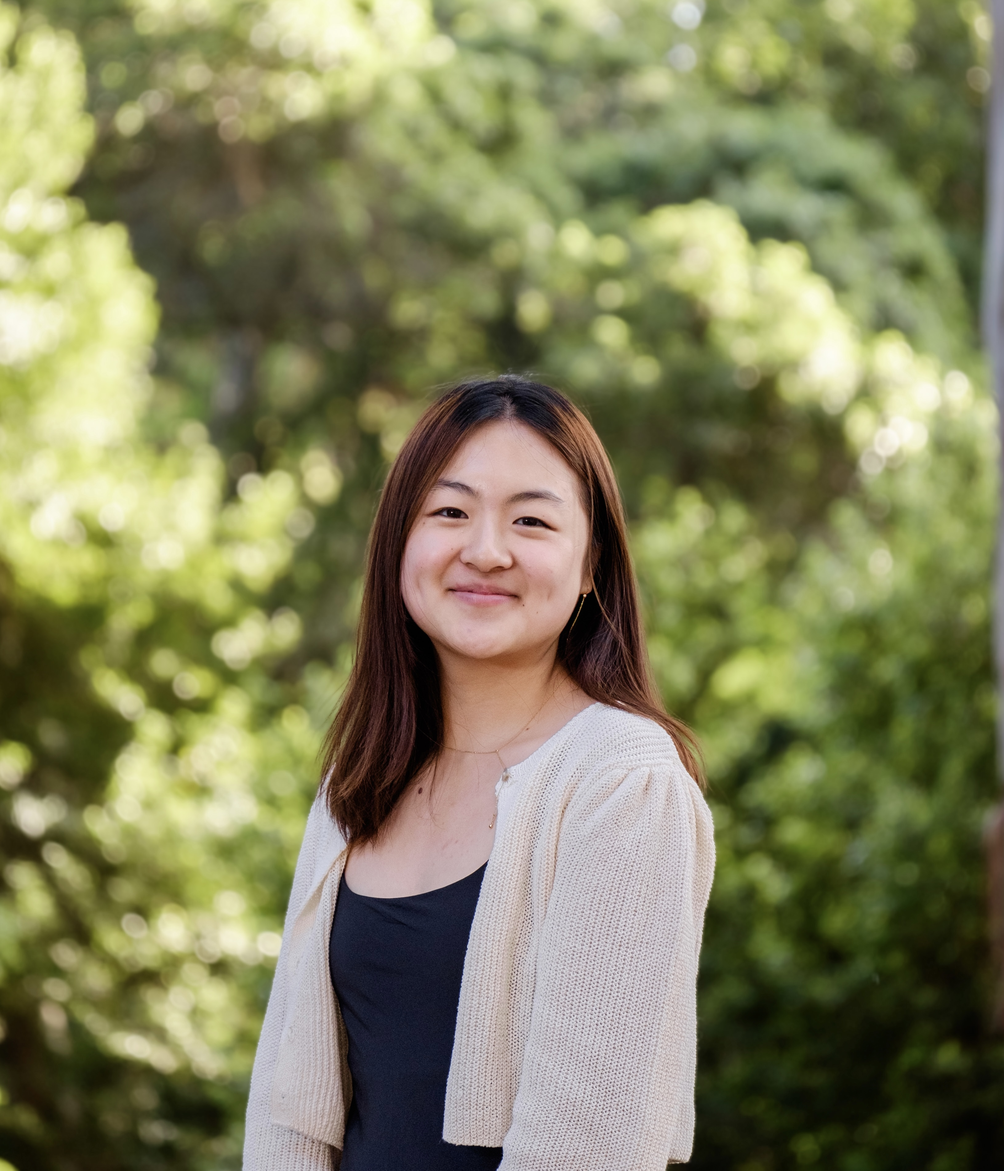
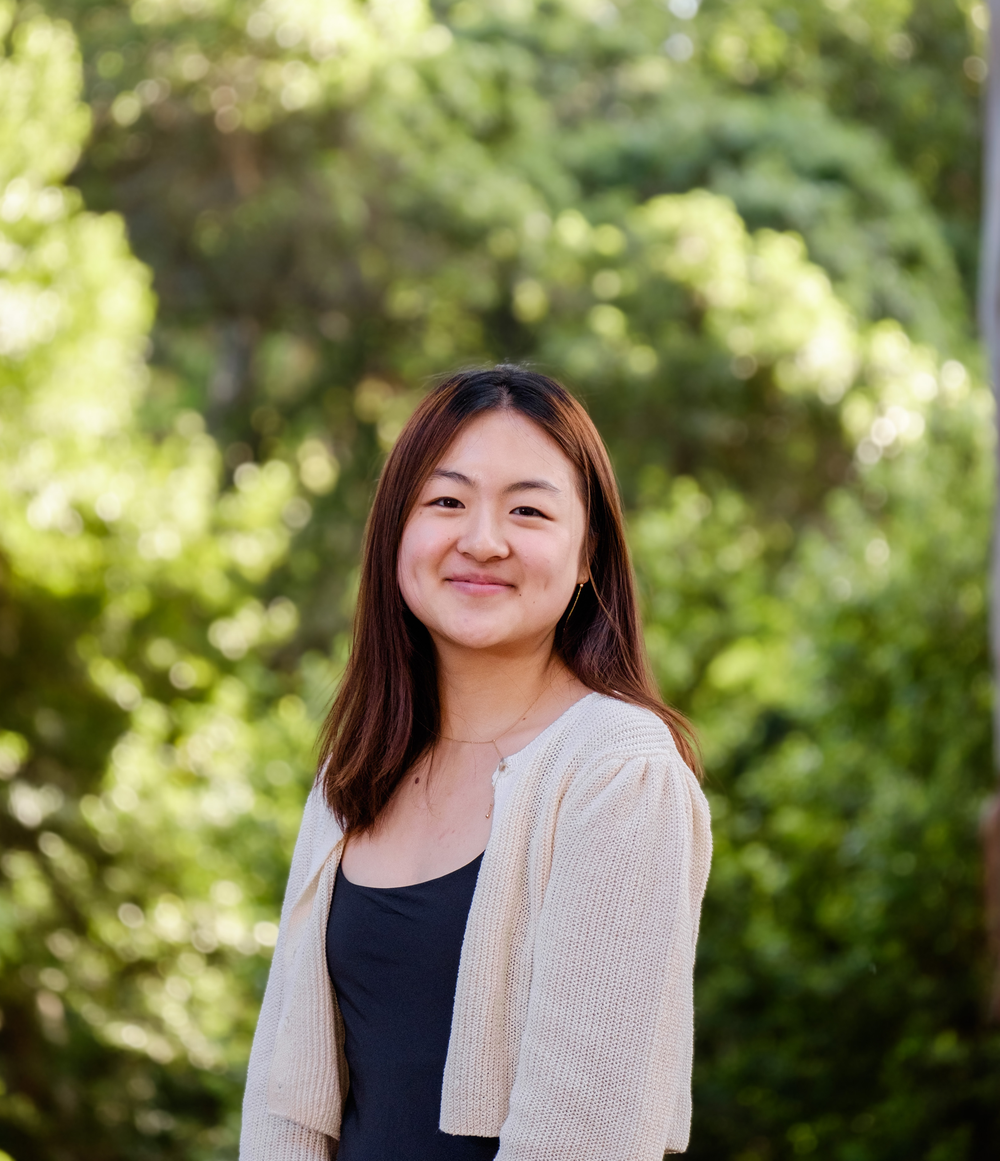
changed intro styling

diff --git a/src/components/About/About.css b/src/components/About/About.css
@@ -22,19 +22,10 @@
   } */
 
 .About {
-  width: 100%;
-  position: relative;
-  overflow: hidden;
-
-  display: flex;
-  flex-direction: column;
-  justify-content: center;
-  align-items: center;
+  width: 100vw;
 }
 
-.intro {
-    padding: 15px;
-    
+.intro { 
     color: #B8A1A1;
     /* font-family: "halyard-micro", sans-serif;
     font-weight: 400; */
@@ -57,15 +48,6 @@
 .bold-text {
   font-weight: bold;
 }
-
-/* .intro-description {
-  padding: 10px;
-
-  color: #999999;
-  font-family: 'KaiseiOpti-Normal';
-  font-style: normal;
-  font-size: 1.8em;
-} */
 
 .intro-scroller {
   border-radius: 1.5em;
@@ -115,21 +97,22 @@
 }
 
 .home {
-  width: 70vw;
+  width: 100vw;
   display: flex;
   flex-direction: row;
   justify-content: space-around;
 
-  padding-top: 8%;
+  padding-top: 1%;
   padding-bottom: 12%;
 }
 
 .left-textbox {
-  width: 90%;
+  width: 100%;
   display: flex;
   flex-direction: column;
   justify-content: space-evenly;
 
+  background-color:rgba(241, 218, 216, 0.3);
 }
 
 .down-arrow {
@@ -142,9 +125,17 @@
 }
 
 .right-picturebox {
-  width: 75%;
+  /* width: 75%;
   display: flex;
-  justify-content: center;
+  justify-content: center; */
+
+  width: 100%;
+
+}
+
+.about-profile-pic {
+  width: 100%;
+  height: auto;
 }
 
 .profile-pic {

diff --git a/src/components/About/About.js b/src/components/About/About.js
@@ -52,6 +52,11 @@ function About() {
       <div className="About">
         {/* <FadeInSection> */}
           <div className="home">
+            
+            <div className="right-picturebox">
+              <img src={profile} alt="profile" className="about-profile-pic"/>
+            </div>
+
             <div className="left-textbox">
               <h2 className="intro">hi, my name is<span className="pink-text"> jiajun.</span></h2>
               {/* <h3 className="intro-description">i'm a student studying <span class="pink-text">computer science</span> and <span class="pink-text">data science</span> at uc berkeley.</h3> */}
@@ -68,9 +73,6 @@ function About() {
               <div className="arrow">
                 <img src={arrow} alt="down arrow" className="down-arrow" onClick={scrollClick}></img>
               </div>
-            </div>
-            <div className="right-picturebox">
-              <img src={profile} alt="profile" className="profile-pic"/>
             </div>
           </div>
 

diff --git a/src/App.js b/src/App.js
@@ -8,16 +8,16 @@ import Footer from './components/Footer/Footer';
 import Contact from './components/Contact/Contact';
 // import { useEffect, useState } from 'react';
 
-const logo = require('./JL-1.png');
+// const logo = require('./JL-1.png');
 
 function App() {
   return (
     <div className="App">
       <div className="NavBar">
-          <img src={logo} alt="logo pic" className="logo-image"></img>
+          {/* <img src={logo} alt="logo pic" className="logo-image"></img> */}
           <NavBar/>
        </div>
-       
+
         <div className = "about-sec">
           <About/>
         </div>
